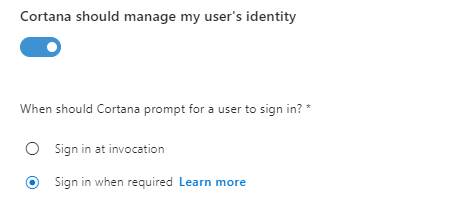
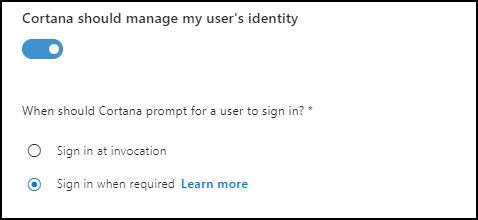
Added border
Added border to image.

diff --git a/docs/skills/authentication.md b/docs/skills/authentication.md
@@ -13,7 +13,7 @@ keywords: cortana
 # Adding Authentication to Your Cortana Skill  
 
 >[!WARNING]
-> Cortana Skills handle authenication differently than Microsoft Bot Framework.
+> Cortana Skills handle authentication differently than Microsoft Bot Framework.
 
 
 There are two ways to add authentication to your Cortana Skill.  
